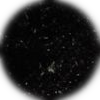
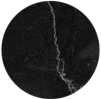
Inserted a description in README.md and inserted zig-zag with image

diff --git a/lib/pages/HomePage.dart b/lib/pages/HomePage.dart
@@ -6,59 +6,58 @@ class HomePage extends StatefulWidget {
 }
 
 class _HomePageState extends State<HomePage> {
-  int rounds = 0;
-  int general = 0;
-  int _counter = 0;
+  bool selected = false;
 
   @override
   Widget build(BuildContext context) {
-    return GestureDetector(
-      onHorizontalDragDown: (details) {
-        double half = MediaQuery.of(context).size.width / 2;
+    return Scaffold(body: layoutArea(context));
+  }
 
-        if (details.localPosition.dx > half) {
-          setState(() {
-            general++;
-            _counter++;
+  Widget layoutArea(BuildContext context) {
+    Duration duration = Duration(milliseconds: 250);
+    double width = MediaQuery.of(context).size.width;
+    double height = (MediaQuery.of(context).size.height - 100) / 2;
 
-            if (_counter > 33) {
-              rounds++;
-              _counter = 0;
-            }
-          });
-        } else if (details.globalPosition.dx < half) {
-          setState(() {
-            general--;
-            _counter--;
-
-            if (_counter < 0) {
-              _counter = 0;
-              if (general > 0 && rounds > 0) {
-                rounds--;
-              }
-            }
-          });
-        }
-      },
-      child: Scaffold(
-        body: Center(
-          child: Column(
-            mainAxisAlignment: MainAxisAlignment.center,
-            children: <Widget>[
-              Text(
-                'Vi multfoje premis la butonon:',
-                style: Theme.of(context).textTheme.headline6,
-              ),
-              Text(
-                '$_counter',
-                style: Theme.of(context).textTheme.headline4,
-              ),
-              Text(
-                'Vi prenis $rounds rondirojn',
-                style: Theme.of(context).textTheme.headline6,
-              ),
+    Row child = Row(
+      children: selected
+          ? [
+              Image(image: AssetImage("assets/green_bead.png")),
+              Image(image: AssetImage("assets/green_bead.png")),
+            ]
+          : [
+              Image(image: AssetImage("assets/green_bead.png")),
+              Image(image: AssetImage("assets/green_bead.png")),
             ],
-          ),
+    );
+
+    return GestureDetector(
+      onTap: () {
+        setState(() {
+          selected = !selected;
+        });
+      },
+      child: Center(
+        child: Stack(
+          children: <Widget>[
+            AnimatedPositioned(
+              child: child,
+              bottom: height,
+              duration: duration,
+              left: selected ? -50 : -150,
+            ),
+            AnimatedPositioned(
+              child: child,
+              bottom: height,
+              duration: duration,
+              right: selected ? -150 : -50,
+            ),
+            AnimatedPositioned(
+              top: height,
+              duration: duration,
+              child: Image.asset("assets/gray_bead.png"),
+              left: selected ? (width - 150) : 50,
+            ),
+          ],
         ),
       ),
     );

diff --git a/lib/main.dart b/lib/main.dart
@@ -1,18 +1,25 @@
-import 'package:etasbih/pages/HomePage.dart';
 import 'package:flutter/material.dart';
+import 'package:etasbih/pages/HomePage.dart';
+import 'package:flutter/services.dart';
 
 void main() {
   runApp(MyApp());
 }
 
 class MyApp extends StatelessWidget {
-  // This widget is the root of your application.
   @override
   Widget build(BuildContext context) {
+    SystemChrome.setSystemUIOverlayStyle(SystemUiOverlayStyle(
+      statusBarColor: Colors.transparent,
+      statusBarBrightness: Brightness.light,
+      statusBarIconBrightness: Brightness.dark,
+    ));
+
     return MaterialApp(
-      title: 'Flutter Demo',
+      title: 'e-Tasbih',
       theme: ThemeData(
         primarySwatch: Colors.blue,
+        scaffoldBackgroundColor: Colors.deepPurple[50],
       ),
       home: HomePage(),
     );

diff --git a/android/app/src/main/kotlin/com/example/etasbih/MainActivity.kt b/android/app/src/main/kotlin/com/example/etasbih/MainActivity.kt
@@ -1,4 +1,4 @@
-package com.example.etasbih
+package br.grs.etasbih
 
 import io.flutter.embedding.android.FlutterActivity
 

diff --git a/README.md b/README.md
@@ -1,16 +1,8 @@
-# etasbih
+# e-Tasbih
+## Motivation
 
-A new Flutter project.
+During my fasting routine I had a idea to create a app with some ad'iyah (prayers of invocation, supplication or request). 
 
-## Getting Started
+This application helps not only to dhikr (remembence to Allah), but also, to guide you in your daily glorification.
 
-This project is a starting point for a Flutter application.
-
-A few resources to get you started if this is your first Flutter project:
-
-- [Lab: Write your first Flutter app](https://flutter.dev/docs/get-started/codelab)
-- [Cookbook: Useful Flutter samples](https://flutter.dev/docs/cookbook)
-
-For help getting started with Flutter, view our
-[online documentation](https://flutter.dev/docs), which offers tutorials,
-samples, guidance on mobile development, and a full API reference.
+Subhanallah for His mercy!
